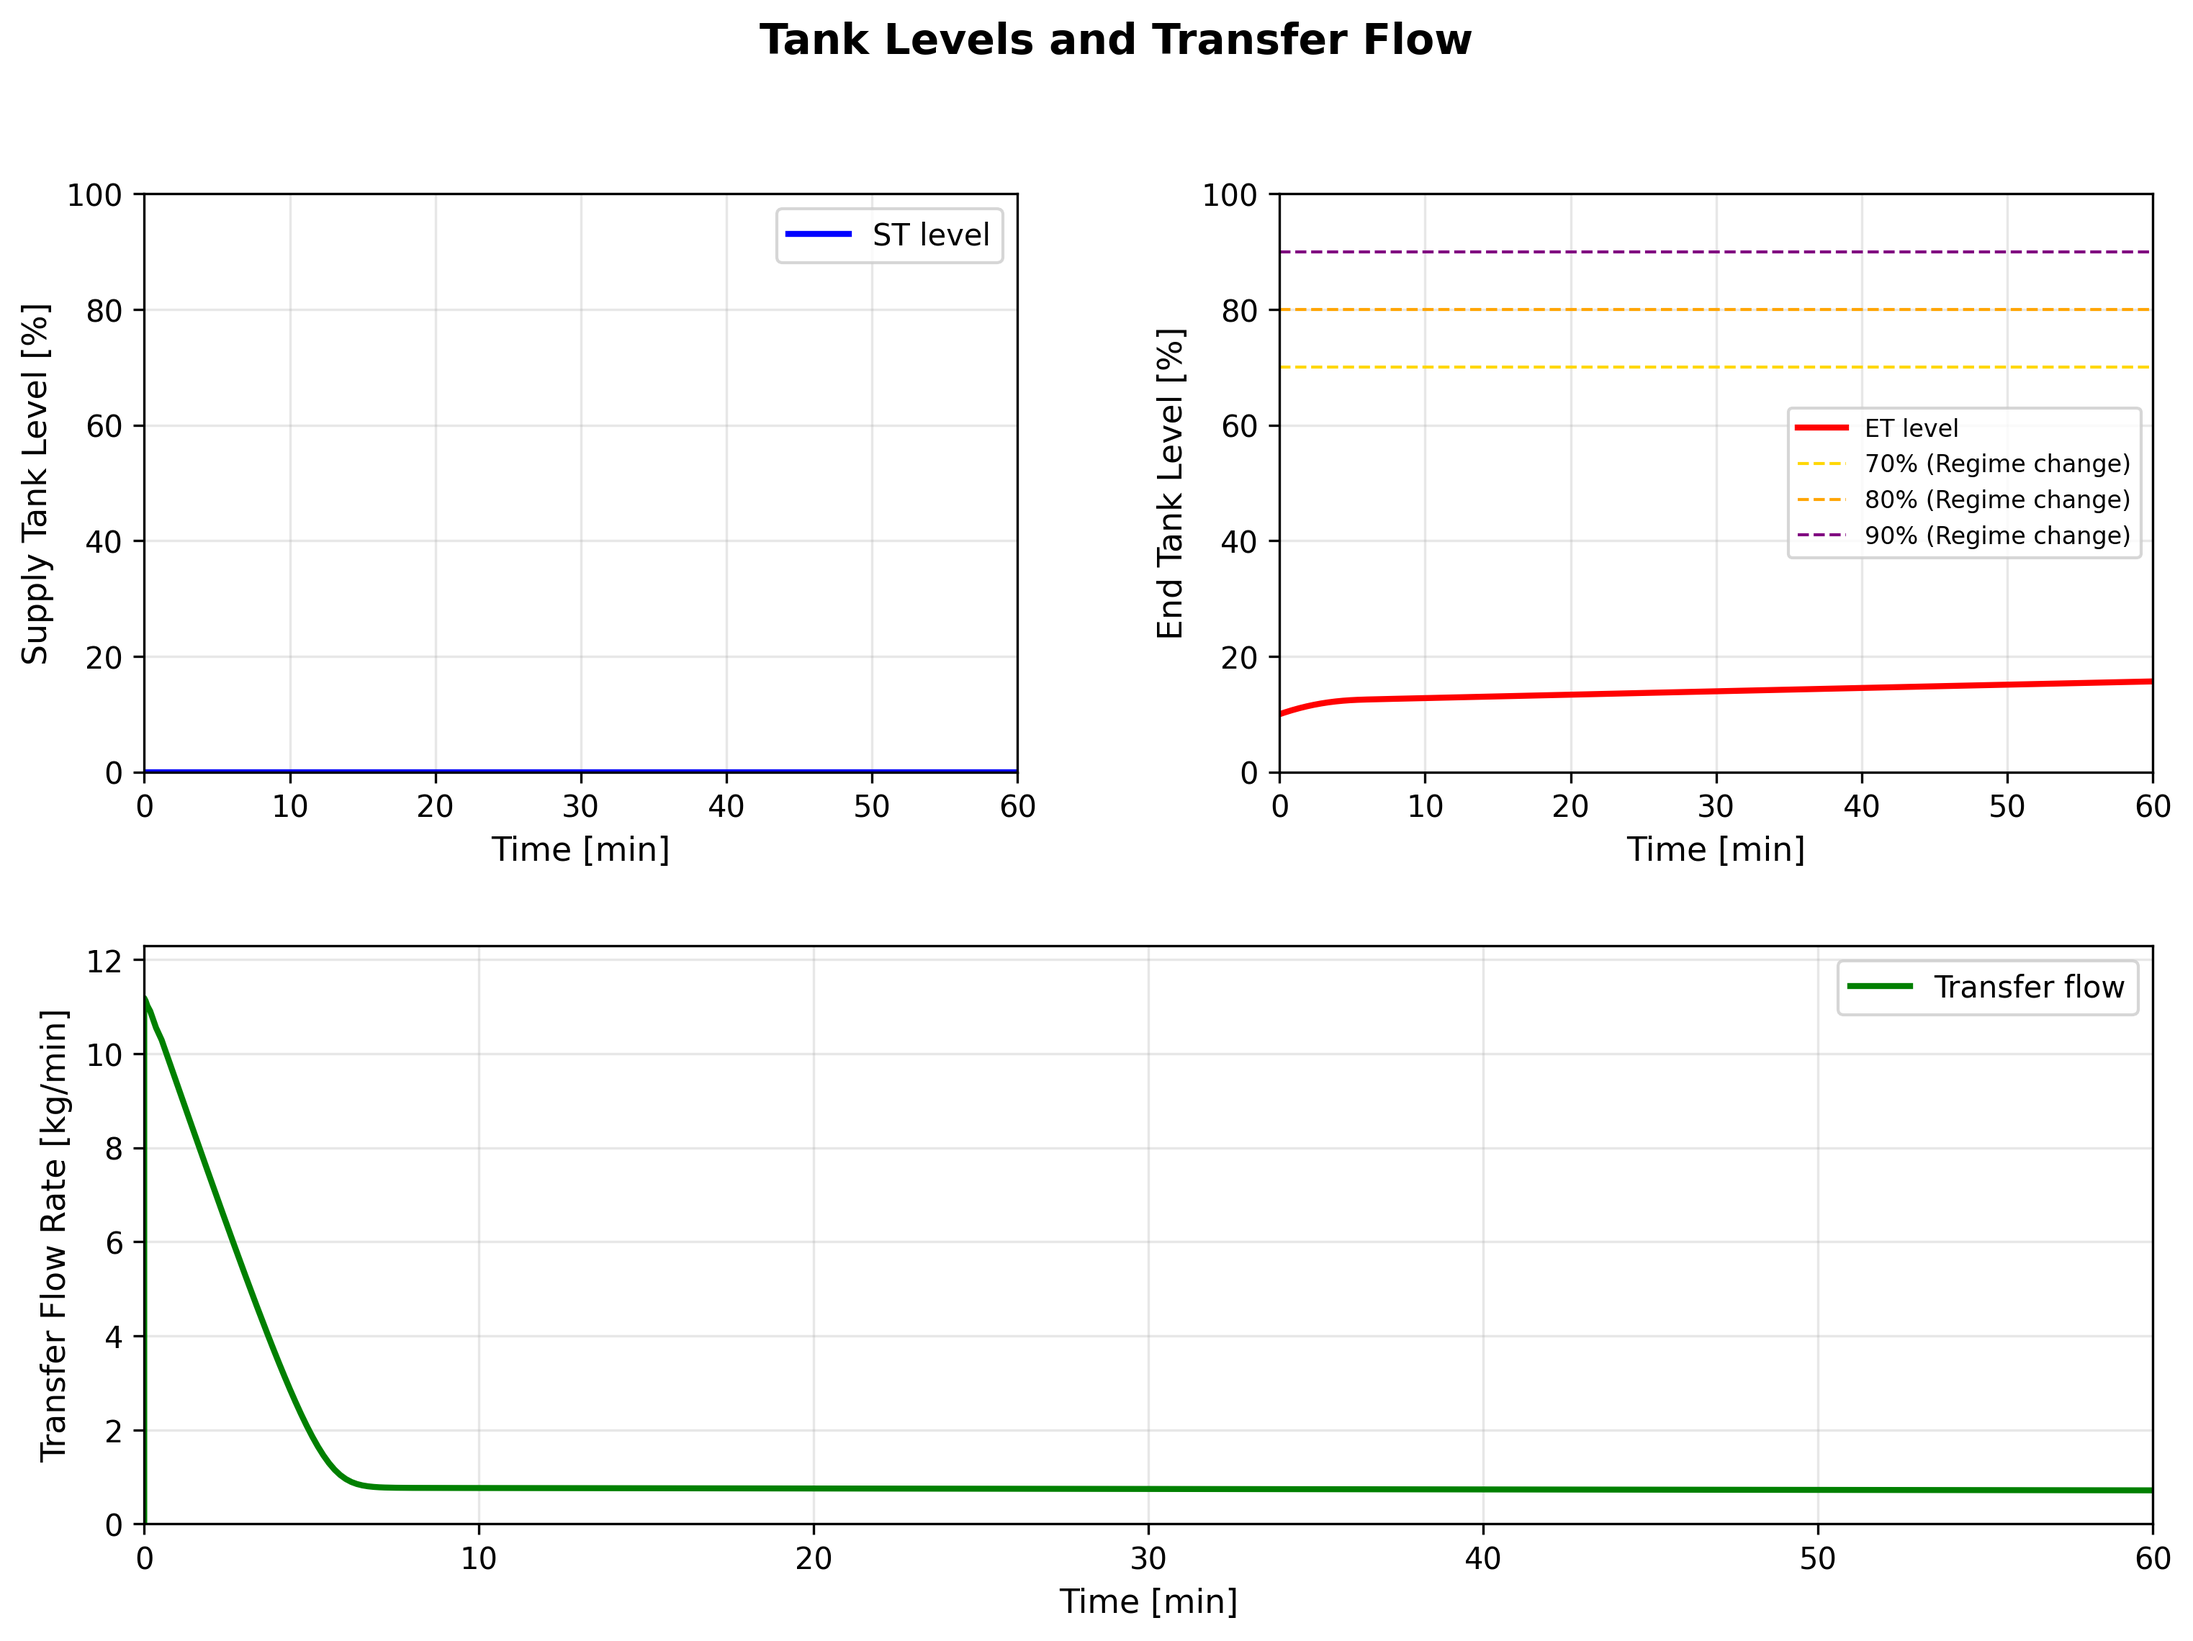
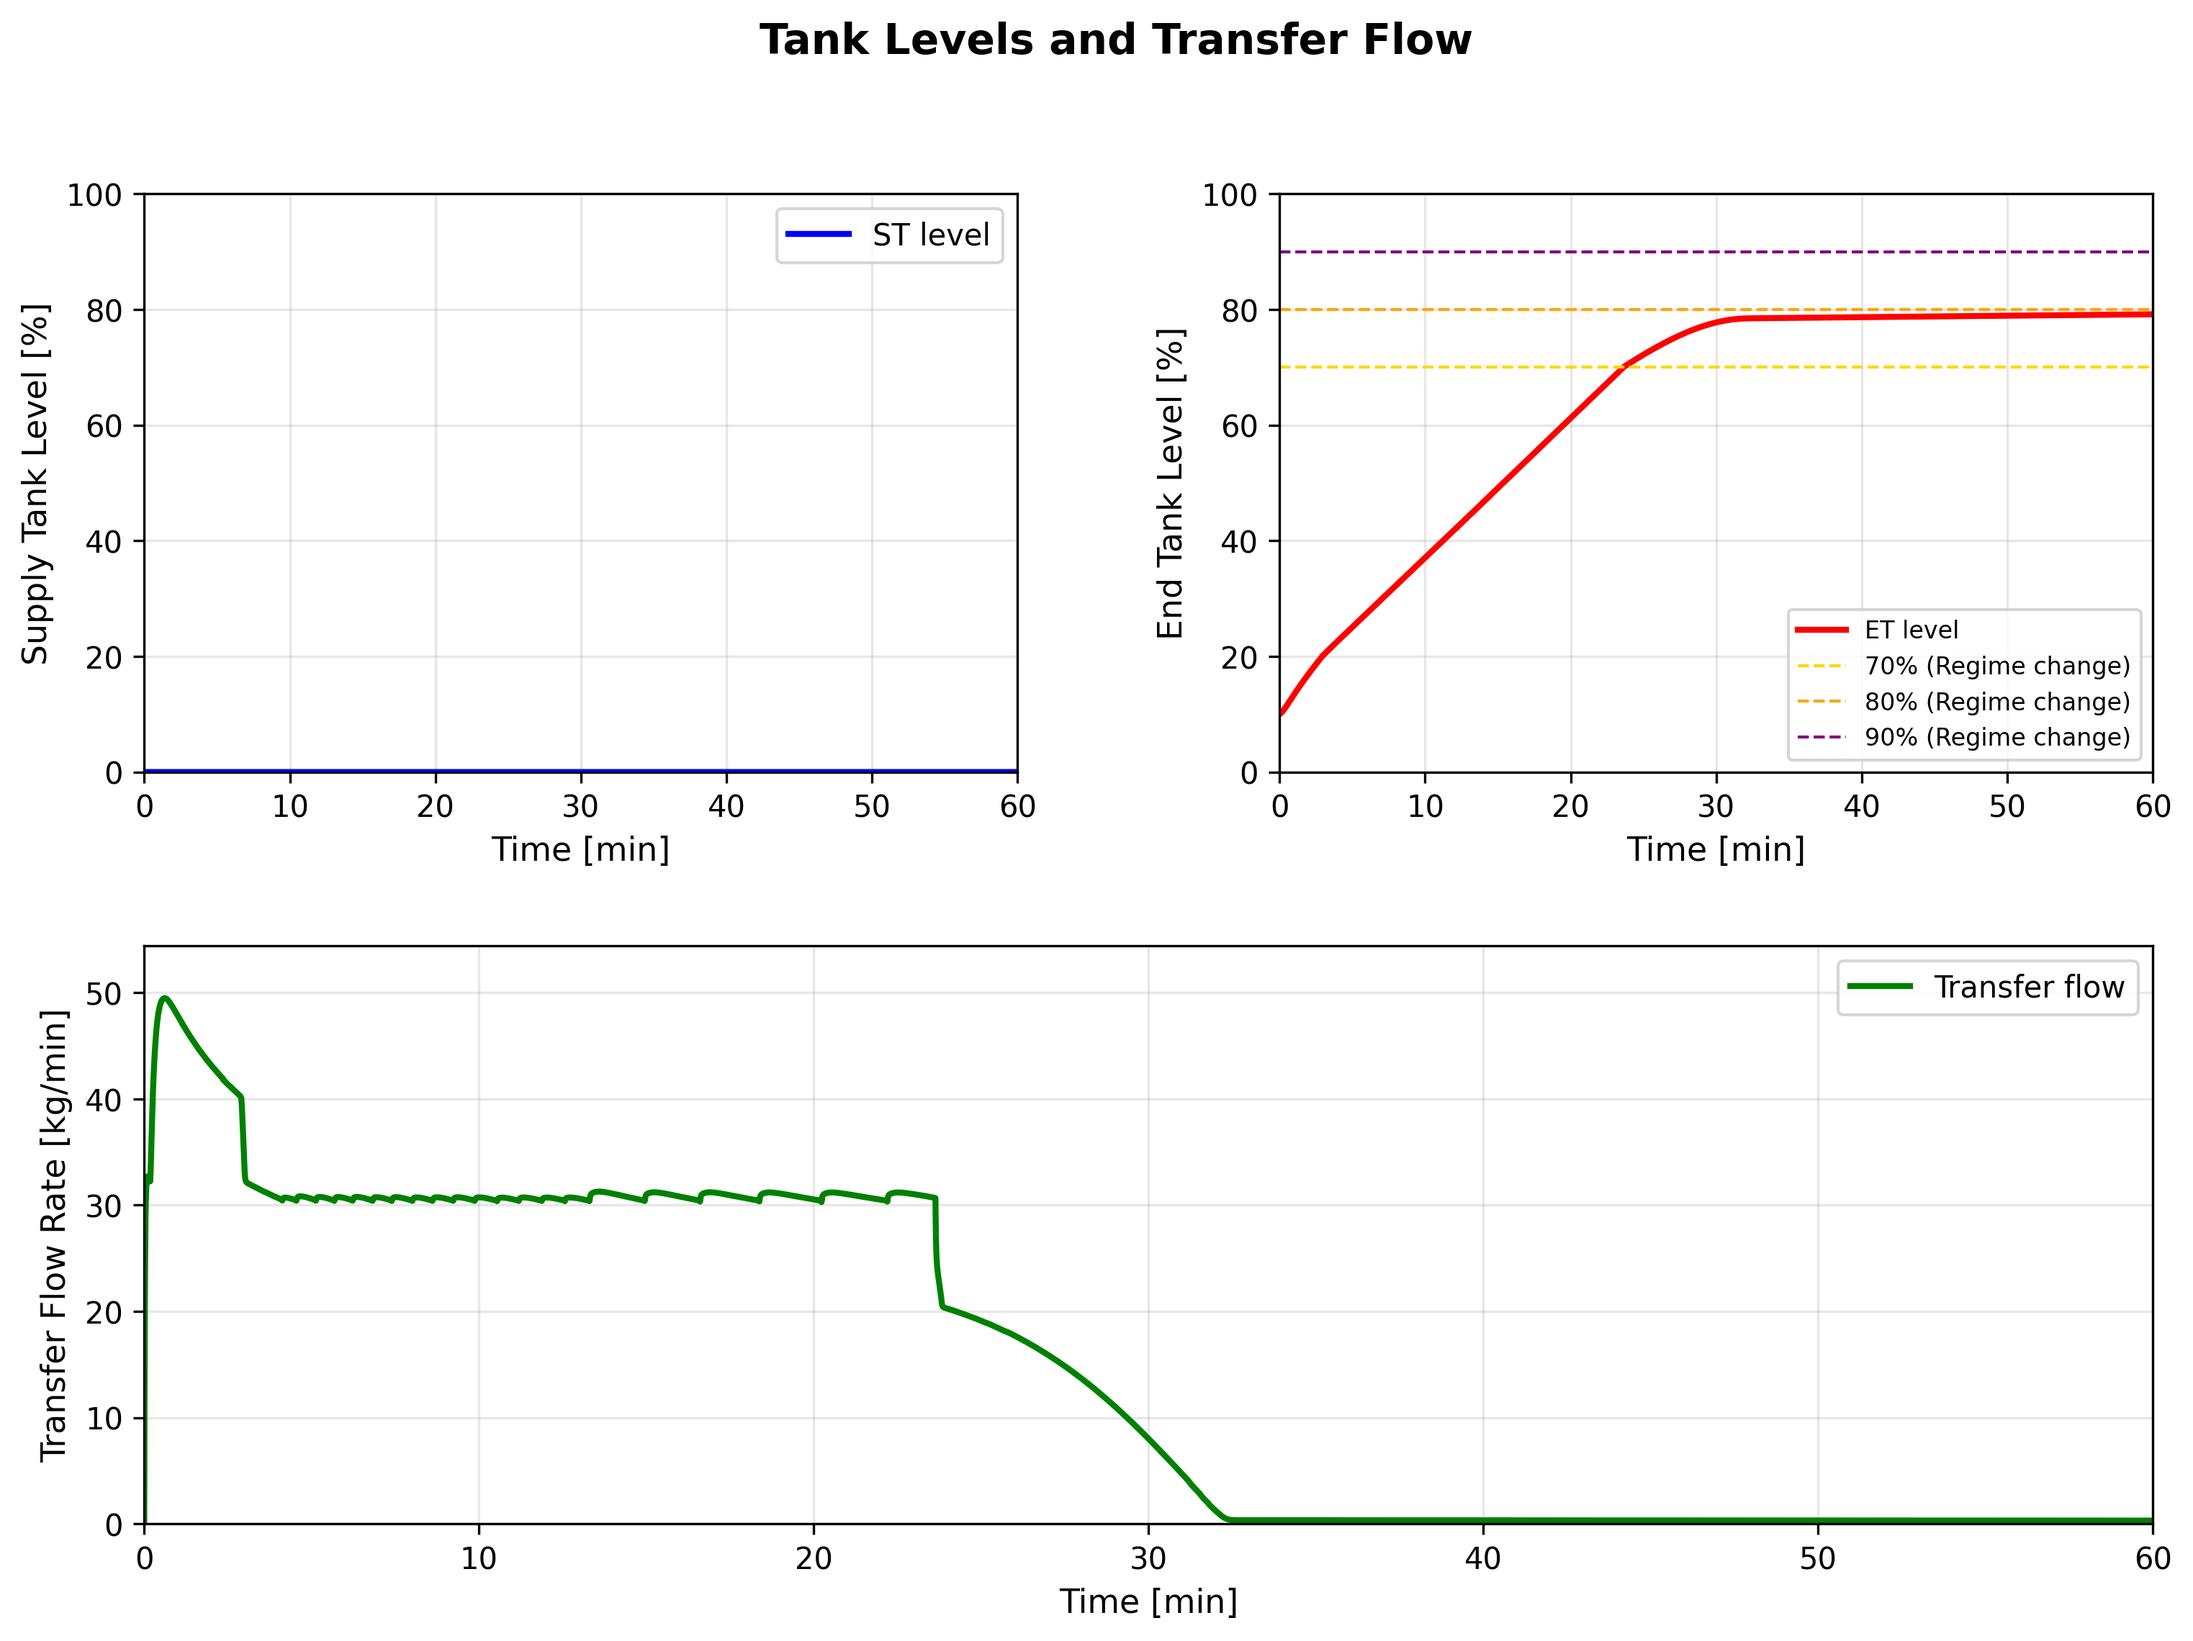
Fix NaN/Inf overflow bugs and mass conservation issues
Added temperature/pressure bounds and vent flow calculations to prevent numerical overflow and ensure proper mass conservation

diff --git a/lh2sim/simulation/simulation.py b/lh2sim/simulation/simulation.py
@@ -22,7 +22,7 @@ from scipy.integrate import solve_ivp
 from lh2sim.parameters import ScenarioConfig
 from lh2sim.properties import FluidProperties
 from lh2sim.geometry import cyl_v_to_h, cylinder_cross_section_area
-from lh2sim.flow import gas_flow
+from lh2sim.flow import gas_flow, vent_flow_rate
 from lh2sim.control import PressureDrivenControl, PumpDrivenControl
 
 
@@ -369,19 +369,30 @@ class Simulator:
         V_v_supply = V_supply - V_L_supply
 
         # Approximate temperatures from internal energies
+        # Add robust bounds to prevent overflow (LH2 reasonable range: 13-100K)
+        T_min = 13.0  # Triple point of H2
+        T_max = 100.0  # Well above critical point
+        
         if state.m_L_supply > 1e-6:
             T_L_supply = state.U_L_supply / (state.m_L_supply * self.config.physics.c_liquid)
+            T_L_supply = np.clip(T_L_supply, T_min, T_max)
         else:
             T_L_supply = self.config.supply_tank.initial_liquid_temp
 
         if state.m_v_supply > 1e-6:
             T_v_supply = state.U_v_supply / (state.m_v_supply * self.config.physics.c_v_vapor)
+            T_v_supply = np.clip(T_v_supply, T_min, T_max)
         else:
             T_v_supply = self.config.supply_tank.initial_vapor_temp
 
         # Approximate pressures (simplified - use ideal gas for vapor)
+        # Add robust bounds to prevent overflow (reasonable range: 0.1-100 bar)
+        p_min = 1e4  # 0.1 bar
+        p_max = 1e7  # 100 bar
+        
         if V_v_supply > 1e-6:
             p_supply = state.m_v_supply * self.config.physics.R_vapor * T_v_supply / V_v_supply
+            p_supply = np.clip(p_supply, p_min, p_max)
         else:
             p_supply = self.config.supply_tank.max_working_pressure
 
@@ -392,16 +403,19 @@ class Simulator:
 
         if state.m_L_receiver > 1e-6:
             T_L_receiver = state.U_L_receiver / (state.m_L_receiver * self.config.physics.c_liquid)
+            T_L_receiver = np.clip(T_L_receiver, T_min, T_max)
         else:
             T_L_receiver = self.config.receiver_tank.initial_liquid_temp
 
         if state.m_v_receiver > 1e-6:
             T_v_receiver = state.U_v_receiver / (state.m_v_receiver * self.config.physics.c_v_vapor)
+            T_v_receiver = np.clip(T_v_receiver, T_min, T_max)
         else:
             T_v_receiver = self.config.receiver_tank.initial_vapor_temp
 
         if V_v_receiver > 1e-6:
             p_receiver = state.m_v_receiver * self.config.physics.R_vapor * T_v_receiver / V_v_receiver
+            p_receiver = np.clip(p_receiver, p_min, p_max)
         else:
             p_receiver = self.config.receiver_tank.max_working_pressure
 
@@ -527,12 +541,47 @@ class Simulator:
             J_cd_receiver = 0.0
 
         # ---------------------------
+        # Vent flows (vapor vented to atmosphere)
+        # ---------------------------
+        p_ambient = 101325.0  # Pa (atmospheric pressure)
+        
+        # Supply tank vent flow
+        if controls.ST_vent_state == 1 and p_supply > p_ambient:
+            # Compute vapor density from ideal gas law
+            rho_v_supply = p_supply / (self.config.physics.R_vapor * T_v_supply)
+            J_vent_supply = vent_flow_rate(
+                P_tank=p_supply,
+                P_ambient=p_ambient,
+                rho_vapor=rho_v_supply,
+                A_vent=self.config.supply_tank.vent_area,
+                gamma=self.config.physics.gamma_vapor,
+                C_d=0.6,  # Discharge coefficient
+            )
+        else:
+            J_vent_supply = 0.0
+        
+        # Receiver tank vent flow
+        if controls.ET_vent_state == 1 and p_receiver > p_ambient:
+            # Compute vapor density from ideal gas law
+            rho_v_receiver = p_receiver / (self.config.physics.R_vapor * T_v_receiver)
+            J_vent_receiver = vent_flow_rate(
+                P_tank=p_receiver,
+                P_ambient=p_ambient,
+                rho_vapor=rho_v_receiver,
+                A_vent=self.config.receiver_tank.vent_area,
+                gamma=self.config.physics.gamma_vapor,
+                C_d=0.6,  # Discharge coefficient
+            )
+        else:
+            J_vent_receiver = 0.0
+
+        # ---------------------------
         # Mass balance derivatives
         # ---------------------------
         dm_L_supply_dt = -mdot_transfer - J_vap + J_cd_supply
-        dm_v_supply_dt = state.J_boil + J_vap - J_cd_supply  # Vaporizer adds vapor
+        dm_v_supply_dt = state.J_boil + J_vap - J_cd_supply - J_vent_supply  # Vaporizer adds vapor, vent removes it
         dm_L_receiver_dt = mdot_transfer + J_cd_receiver
-        dm_v_receiver_dt = -J_cd_receiver
+        dm_v_receiver_dt = -J_cd_receiver - J_vent_receiver  # Vent removes vapor
 
         # ---------------------------
         # Energy balance derivatives
